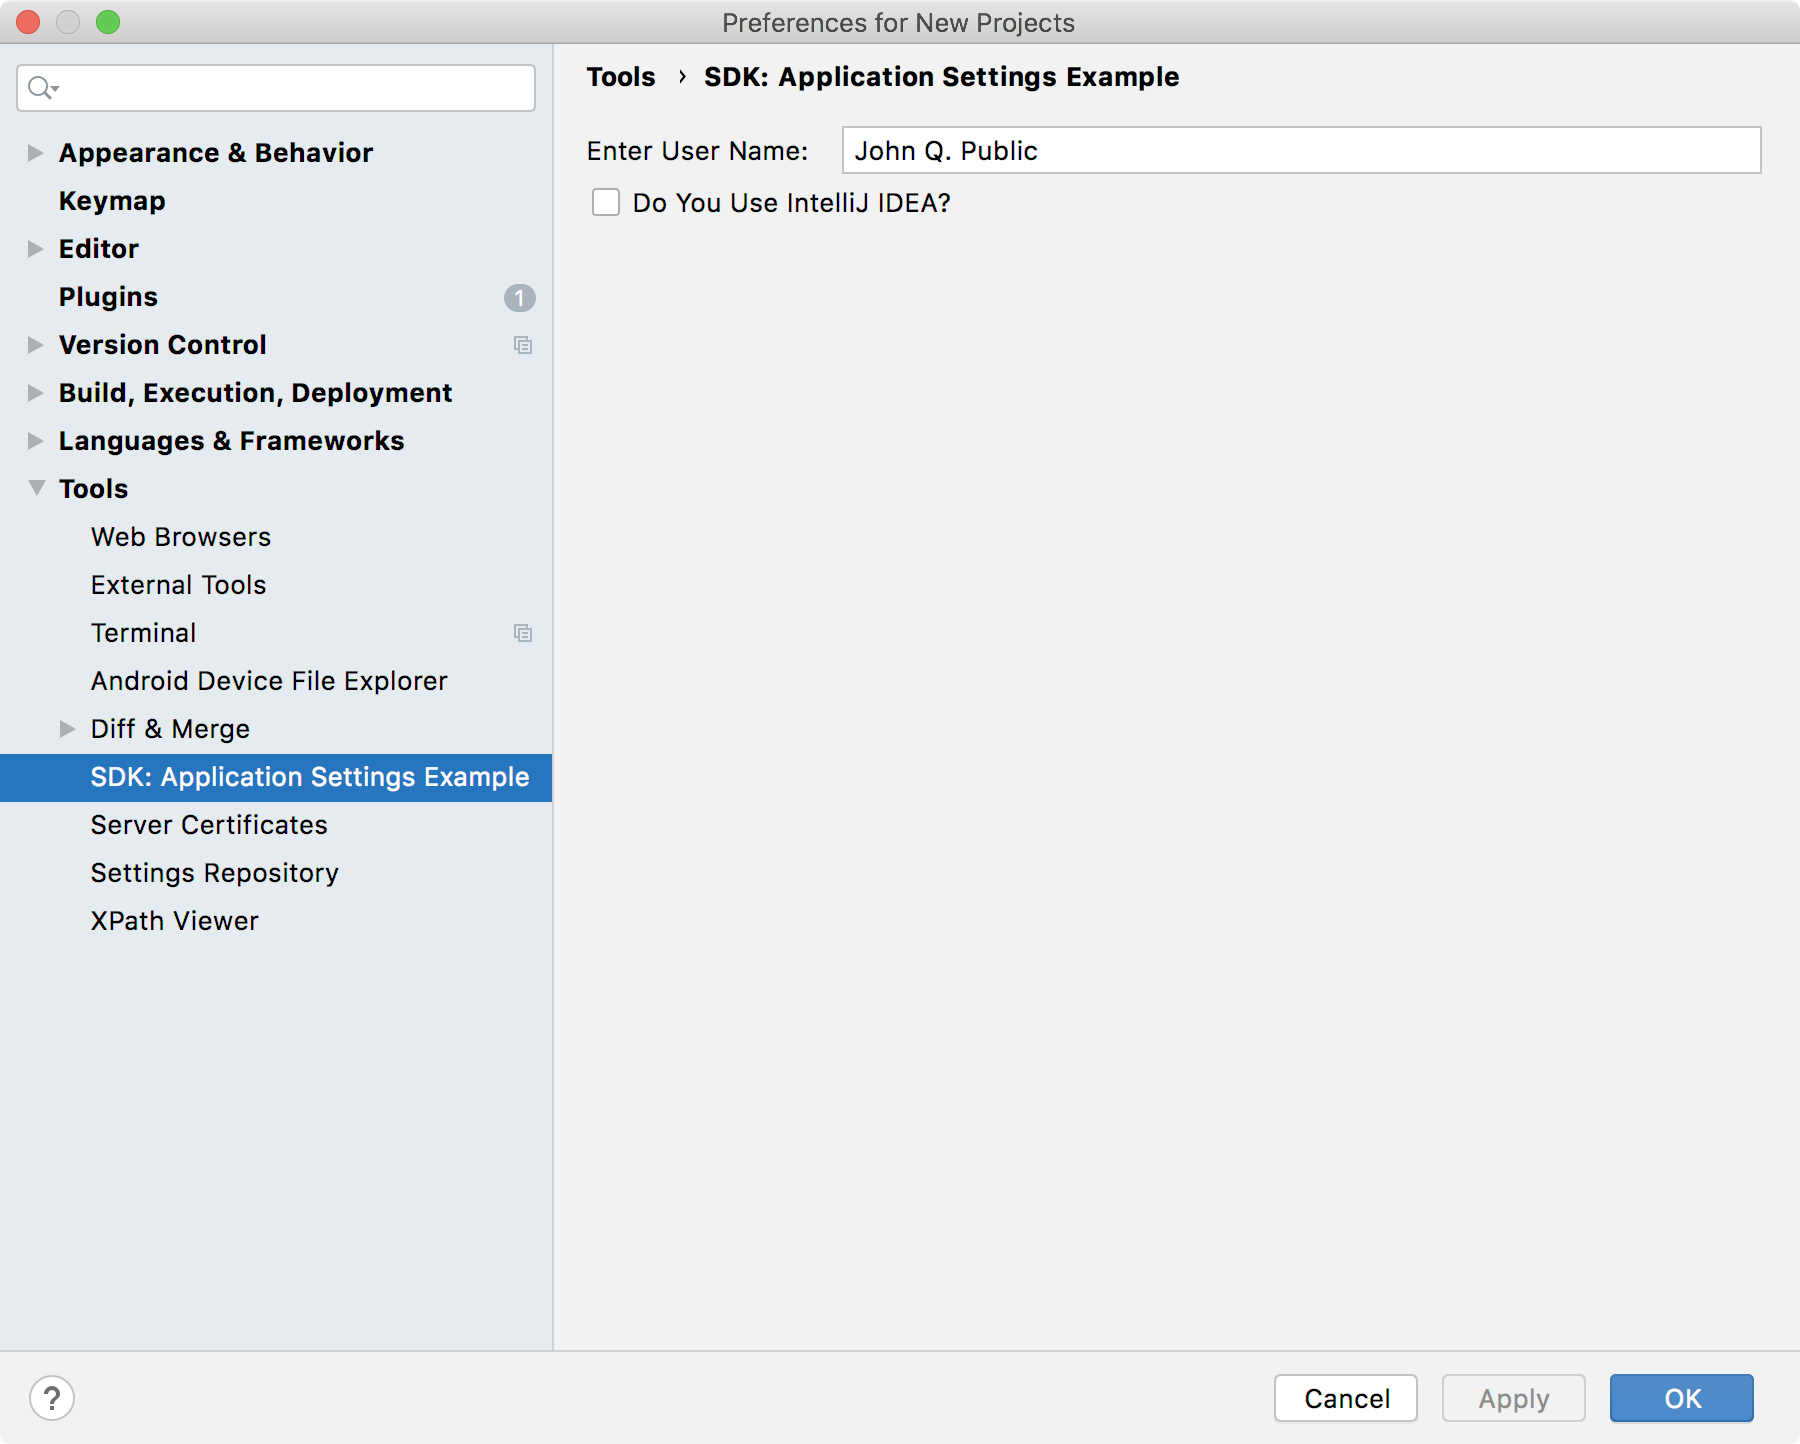
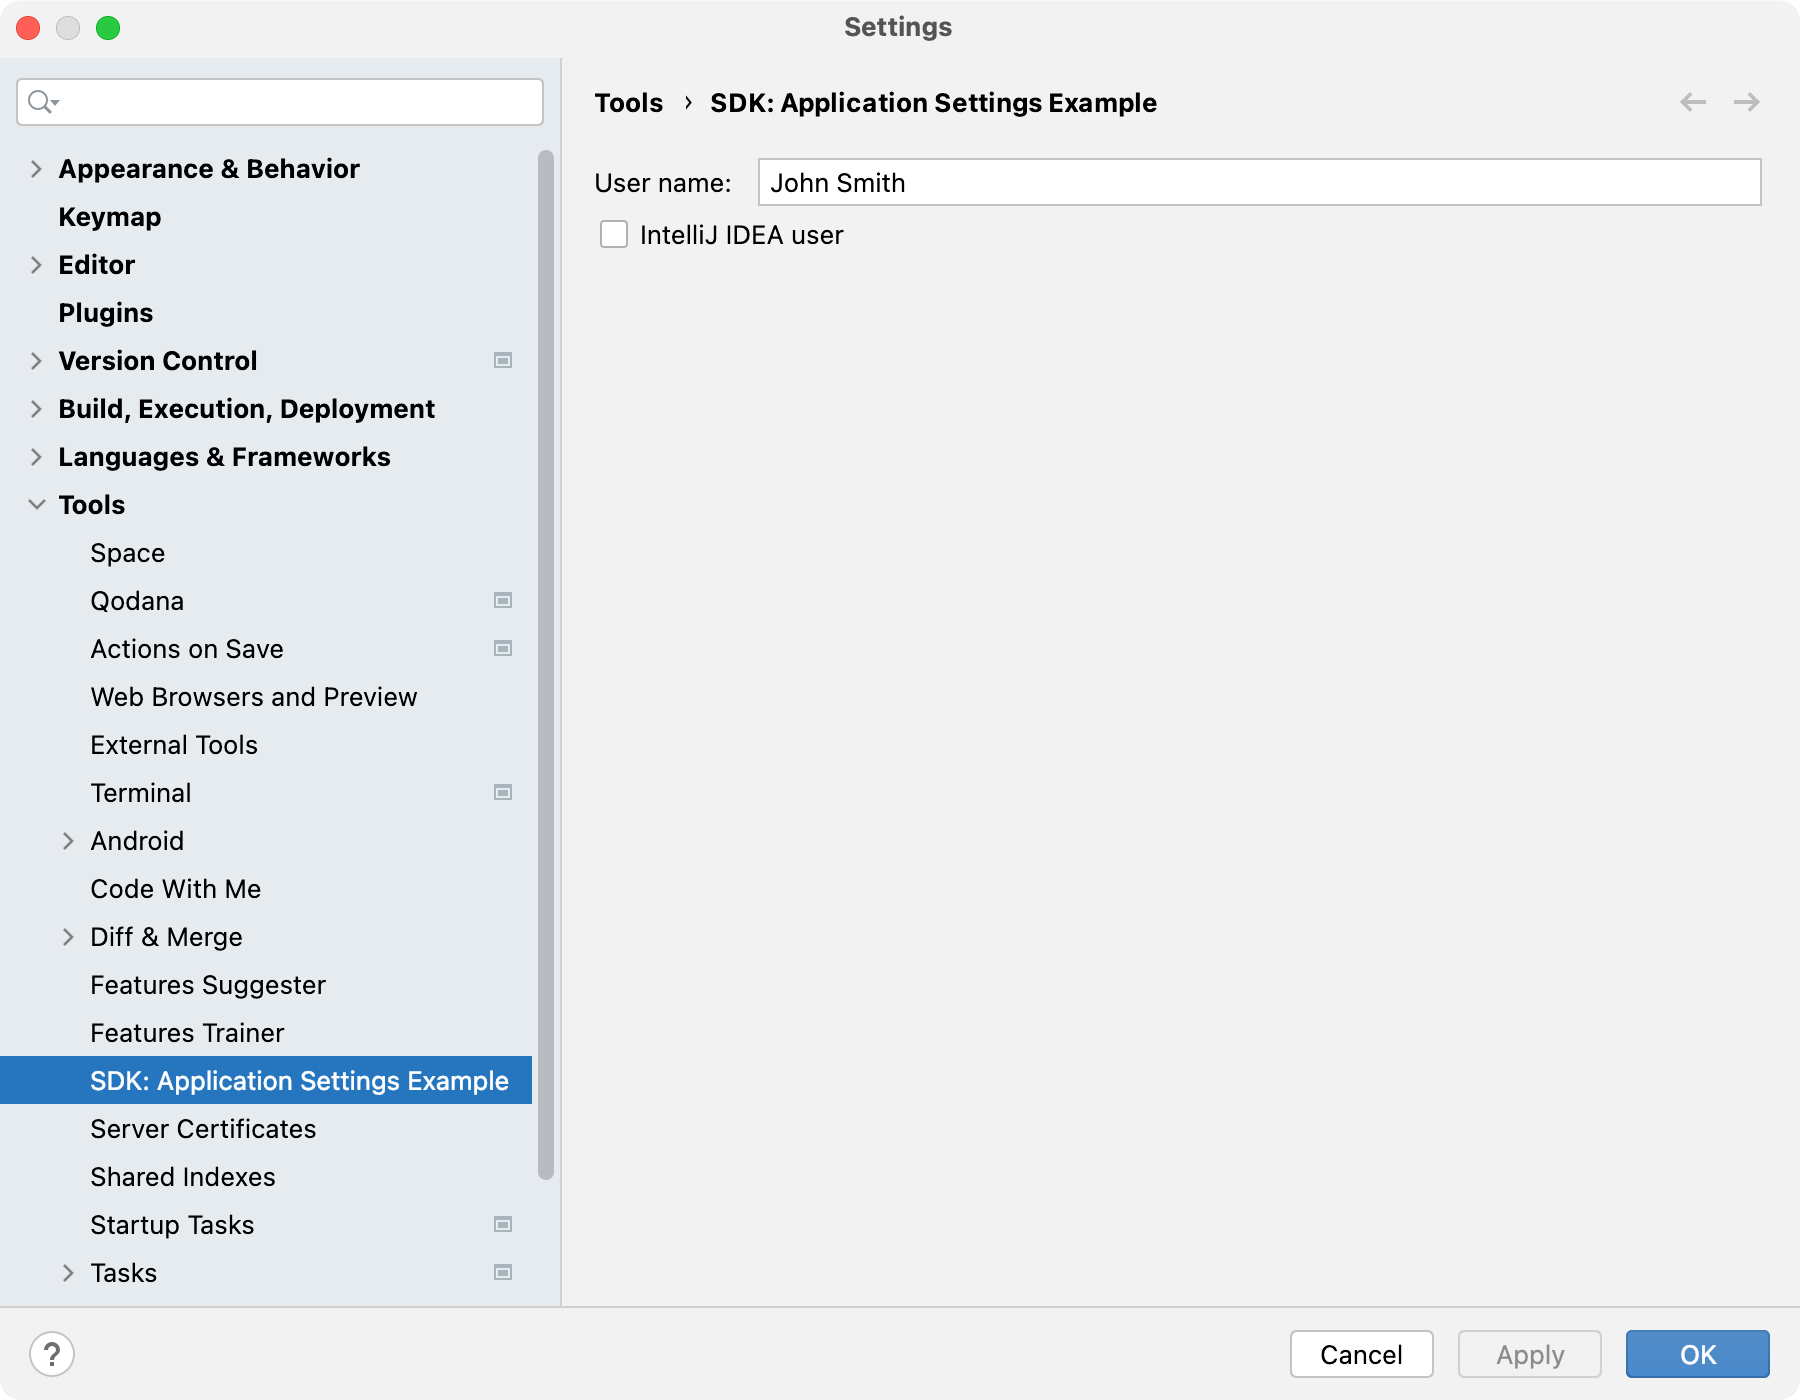
Settings tutorial: Change the implementation to follow the recommended approach (a separate state class)
Also:
- remove unnecessary screenshot
- change labels to follow UX guidelines

diff --git a/code_samples/settings/src/main/java/org/intellij/sdk/settings/AppSettingsConfigurable.java b/code_samples/settings/src/main/java/org/intellij/sdk/settings/AppSettingsConfigurable.java
@@ -6,6 +6,7 @@ import org.jetbrains.annotations.Nls;
 import org.jetbrains.annotations.Nullable;
 
 import javax.swing.*;
+import java.util.Objects;
 
 /**
  * Provides controller functionality for application settings.
@@ -14,8 +15,8 @@ final class AppSettingsConfigurable implements Configurable {
 
   private AppSettingsComponent mySettingsComponent;
 
-  // A default constructor with no arguments is required because this implementation
-  // is registered in an applicationConfigurable EP
+  // A default constructor with no arguments is required because
+  // this implementation is registered as an applicationConfigurable
 
   @Nls(capitalization = Nls.Capitalization.Title)
   @Override
@@ -37,24 +38,26 @@ final class AppSettingsConfigurable implements Configurable {
 
   @Override
   public boolean isModified() {
-    AppSettingsState settings = AppSettingsState.getInstance();
-    boolean modified = !mySettingsComponent.getUserNameText().equals(settings.userId);
-    modified |= mySettingsComponent.getIdeaUserStatus() != settings.ideaStatus;
-    return modified;
+    AppSettings.State state =
+        Objects.requireNonNull(AppSettings.getInstance().getState());
+    return !mySettingsComponent.getUserNameText().equals(state.userId) ||
+        mySettingsComponent.getIdeaUserStatus() != state.ideaStatus;
   }
 
   @Override
   public void apply() {
-    AppSettingsState settings = AppSettingsState.getInstance();
-    settings.userId = mySettingsComponent.getUserNameText();
-    settings.ideaStatus = mySettingsComponent.getIdeaUserStatus();
+    AppSettings.State state =
+        Objects.requireNonNull(AppSettings.getInstance().getState());
+    state.userId = mySettingsComponent.getUserNameText();
+    state.ideaStatus = mySettingsComponent.getIdeaUserStatus();
   }
 
   @Override
   public void reset() {
-    AppSettingsState settings = AppSettingsState.getInstance();
-    mySettingsComponent.setUserNameText(settings.userId);
-    mySettingsComponent.setIdeaUserStatus(settings.ideaStatus);
+    AppSettings.State state =
+        Objects.requireNonNull(AppSettings.getInstance().getState());
+    mySettingsComponent.setUserNameText(state.userId);
+    mySettingsComponent.setIdeaUserStatus(state.ideaStatus);
   }
 
   @Override

diff --git a/code_samples/settings/src/main/java/org/intellij/sdk/settings/AppSettings.java b/code_samples/settings/src/main/java/org/intellij/sdk/settings/AppSettings.java
@@ -1,0 +1,49 @@
+// Copyright 2000-2024 JetBrains s.r.o. and contributors. Use of this source code is governed by the Apache 2.0 license.
+
+package org.intellij.sdk.settings;
+
+import com.intellij.openapi.application.ApplicationManager;
+import com.intellij.openapi.components.PersistentStateComponent;
+import com.intellij.openapi.components.State;
+import com.intellij.openapi.components.Storage;
+import org.jetbrains.annotations.NonNls;
+import org.jetbrains.annotations.NotNull;
+
+/*
+ * Supports storing the application settings in a persistent way.
+ * The {@link com.intellij.openapi.components.State State} and {@link Storage}
+ * annotations define the name of the data and the filename where these persistent
+ * application settings are stored.
+ */
+
+@State(
+    name = "org.intellij.sdk.settings.AppSettings",
+    storages = @Storage("SdkSettingsPlugin.xml")
+)
+final class AppSettings
+    implements PersistentStateComponent<AppSettings.State> {
+
+  static class State {
+    @NonNls
+    public String userId = "John Smith";
+    public boolean ideaStatus = false;
+  }
+
+  private State myState = new State();
+
+  static AppSettings getInstance() {
+    return ApplicationManager.getApplication()
+        .getService(AppSettings.class);
+  }
+
+  @Override
+  public State getState() {
+    return myState;
+  }
+
+  @Override
+  public void loadState(@NotNull State state) {
+    myState = state;
+  }
+
+}

diff --git a/code_samples/settings/src/main/java/org/intellij/sdk/settings/AppSettingsComponent.java b/code_samples/settings/src/main/java/org/intellij/sdk/settings/AppSettingsComponent.java
@@ -1,4 +1,4 @@
-// Copyright 2000-2022 JetBrains s.r.o. and other contributors. Use of this source code is governed by the Apache 2.0 license that can be found in the LICENSE file.
+// Copyright 2000-2024 JetBrains s.r.o. and contributors. Use of this source code is governed by the Apache 2.0 license.
 
 package org.intellij.sdk.settings;
 
@@ -17,11 +17,11 @@ public class AppSettingsComponent {
 
   private final JPanel myMainPanel;
   private final JBTextField myUserNameText = new JBTextField();
-  private final JBCheckBox myIdeaUserStatus = new JBCheckBox("Do you use IntelliJ IDEA? ");
+  private final JBCheckBox myIdeaUserStatus = new JBCheckBox("IntelliJ IDEA user");
 
   public AppSettingsComponent() {
     myMainPanel = FormBuilder.createFormBuilder()
-        .addLabeledComponent(new JBLabel("Enter user name: "), myUserNameText, 1, false)
+        .addLabeledComponent(new JBLabel("User name:"), myUserNameText, 1, false)
         .addComponent(myIdeaUserStatus, 1)
         .addComponentFillVertically(new JPanel(), 0)
         .getPanel();

diff --git a/topics/tutorials/settings_tutorial.md b/topics/tutorials/settings_tutorial.md
@@ -13,7 +13,7 @@ Custom Settings are displayed and function just like those native to the IDE.
 Using the SDK code sample [`settings`](%gh-sdk-samples-master%/settings), this tutorial illustrates the steps to create custom Application-level Settings.
 Many IntelliJ Platform Settings implementations use fewer classes, but the `settings` code sample factors the functionality into three classes for clarity:
 * The [`AppSettingsConfigurable`](%gh-sdk-samples-master%/settings/src/main/java/org/intellij/sdk/settings/AppSettingsConfigurable.java) is analogous to a Controller in the MVC model - it interacts with the other two Settings classes and the IntelliJ Platform,
-* The [`AppSettingsState`](%gh-sdk-samples-master%/settings/src/main/java/org/intellij/sdk/settings/AppSettingsState.java) is like a Model because it stores the Settings persistently,
+* The [`AppSettings`](%gh-sdk-samples-master%/settings/src/main/java/org/intellij/sdk/settings/AppSettings.java) is like a Model because it stores the Settings persistently,
 * The [`AppSettingsComponent`](%gh-sdk-samples-master%/settings/src/main/java/org/intellij/sdk/settings/AppSettingsComponent.java) is similar to a View because it displays and captures edits to the values of the Settings.
 
 The structure of the implementation is the same for Project Settings, but there are minor differences in the [`Configurable` implementation](settings_guide.md#constructors) and [extension point (EP) declaration](settings_guide.md#declaring-project-settings).
@@ -26,12 +26,12 @@ The structure of the implementation is the same for Project Settings, but there 
 >
 {style="note"}
 
-## The `AppSettingsState` Class
+## The `AppSettings` Class
 
-The `AppSettingsState` class persistently stores the custom Settings.
+The `AppSettings` class persistently stores the custom Settings.
 It is based on the [IntelliJ Platform Persistence Model](persisting_state_of_components.md#using-persistentstatecomponent).
 
-### Declaring `AppSettingsState`
+### Declaring `AppSettings`
 
 Given a [Light Service](plugin_services.md#light-services) is not used, the persistent data class must be declared as a [Service](plugin_services.md#declaring-a-service) EP in the <path>[plugin.xml](plugin_configuration_file.md)</path> file.
 If these were Project Settings, the `com.intellij.projectService` EP would be used.
@@ -40,40 +40,40 @@ However, because these are Application Settings, the `com.intellij.applicationSe
 ```xml
 <extensions defaultExtensionNs="com.intellij">
   <applicationService
-      serviceImplementation="org.intellij.sdk.settings.AppSettingsState"/>
+      serviceImplementation="org.intellij.sdk.settings.AppSettings"/>
 </extensions>
 ```
 
-### Creating the `AppSettingState` Implementation
+### Creating the `AppSettings` Implementation
 
-As discussed in [Implementing the PersistentStateComponent Interface](persisting_state_of_components.md#implementing-the-persistentstatecomponent-interface), `AppSettingsState` uses the pattern of implementing [`PersistentStateComponent`](%gh-ic%/platform/projectModel-api/src/com/intellij/openapi/components/PersistentStateComponent.java) itself:
+As discussed in [Implementing the PersistentStateComponent Interface](persisting_state_of_components.md#implementing-the-persistentstatecomponent-interface), `AppSettings` uses the pattern of implementing [`PersistentStateComponent`](%gh-ic%/platform/projectModel-api/src/com/intellij/openapi/components/PersistentStateComponent.java) parameterized by a separate state class:
 
 ```java
 ```
-{src="settings/src/main/java/org/intellij/sdk/settings/AppSettingsState.java" include-symbol="AppSettingsState"}
+{src="settings/src/main/java/org/intellij/sdk/settings/AppSettings.java" include-symbol="AppSettings"}
 
 #### `@Storage` Annotation
 
 The [`@State`](%gh-ic%/platform/projectModel-api/src/com/intellij/openapi/components/State.java) annotation, located just above the class declaration, [defines the data storage location](persisting_state_of_components.md#defining-the-storage-location).
-For `AppSettingsState`, the data `name` parameter is the FQN of the class.
+For `AppSettings`, the data `name` parameter is the FQN of the class.
 Using FQN is the best practice to follow, and is required if custom data gets stored in the standard project or workspace files.
 
-The `storages` parameter utilizes the [`@Storage`](%gh-ic%/platform/projectModel-api/src/com/intellij/openapi/components/Storage.java) annotation to define a custom file name for the `AppSettingsState` data.
+The `storages` parameter utilizes the [`@Storage`](%gh-ic%/platform/projectModel-api/src/com/intellij/openapi/components/Storage.java) annotation to define a custom file name for the `AppSettings` data.
 In this case, the file is located in the `options` directory of the [configuration directory](https://www.jetbrains.com/help/idea/tuning-the-ide.html#config-directory) for the IDE.
 
-#### Persistent Data Fields
+#### Persistent State Class
 
-The `AppSettingState` implementation has two public fields: a `String` and a `boolean`.
-Conceptually, these fields hold the name of a user, and whether that person is an IntelliJ IDEA user, respectively.
+The `AppSettings` implementation contains an inner state class with two public fields: a `String` and a `boolean`.
+Conceptually, these fields hold the name of a user and whether that person is an IntelliJ IDEA user, respectively.
 See [Implementing the State Class](persisting_state_of_components.md#implementing-the-state-class) for more information about how `PersistentStateComponent` serializes public fields.
 
-#### `AppSettingState` Methods
+#### `AppSettings` Methods
 
 The fields are so limited and straightforward for this class that encapsulation is not used for simplicity.
 All that's needed for functionality is to override the two methods called by the IntelliJ Platform when a new component state is loaded (`PersistentStateComponent.loadState()`), and when a state is saved (`PersistentStateComponent.getState()`).
 See [`PersistentStateComponent`](%gh-ic%/platform/projectModel-api/src/com/intellij/openapi/components/PersistentStateComponent.java) for more information about these methods.
 
-One static convenience method has been added - `AppSettingState.getInstance()` - which allows `AppSettingsConfigurable` to easily acquire a reference to `AppSettingState`.
+One static convenience method has been added - `AppSettings.getInstance()` - which allows `AppSettingsConfigurable` to easily acquire a reference to `AppSetting`.
 
 ## The `AppSettingsComponent` Class
 
@@ -83,7 +83,7 @@ The `AppSettingsComponent` is instantiated by `AppSettingsConfigurable`.
 
 ### Creating the `AppSettingsComponent` Implementation
 
-The `AppSettingsComponent` defines a `JPanel` containing a [`JBTextField`](%gh-ic%/platform/platform-api/src/com/intellij/ui/components/JBTextField.java) and a [`JBCheckBox`](%gh-ic%/platform/platform-api/src/com/intellij/ui/components/JBCheckBox.java) to hold and display the data that maps to the [data fields](#persistent-data-fields) of `AppSettingsState`:
+The `AppSettingsComponent` defines a `JPanel` containing a [`JBTextField`](%gh-ic%/platform/platform-api/src/com/intellij/ui/components/JBTextField.java) and a [`JBCheckBox`](%gh-ic%/platform/platform-api/src/com/intellij/ui/components/JBCheckBox.java) to hold and display the data that maps to the [data fields of `AppSettings.State`](#persistent-state-class):
 
 ```java
 ```
@@ -96,7 +96,7 @@ The rest of the class are simple accessors and mutators to encapsulate the UI co
 
 ## The `AppSettingsConfigurable` Class
 
-The methods of [`AppSettingsConfigurable`](%gh-sdk-samples-master%/settings/src/main/java/org/intellij/sdk/settings/AppSettingsConfigurable.java) are called by the IntelliJ Platform, and `AppSettingsConfigurable` in turn interacts with `AppSettingsComponent` and `AppSettingState`.
+The methods of [`AppSettingsConfigurable`](%gh-sdk-samples-master%/settings/src/main/java/org/intellij/sdk/settings/AppSettingsConfigurable.java) are called by the IntelliJ Platform, and `AppSettingsConfigurable` in turn interacts with `AppSettingsComponent` and `AppSettings`.
 
 ### Declaring the `AppSettingsConfigurable`
 
@@ -134,13 +134,11 @@ After performing the steps described above, compile and run the plugin in a Deve
 Open the IDE Settings by selecting <ui-path>Settings | Tools | SDK: Application Settings Example</ui-path>.
 The settings are preloaded with the default values:
 
-!["Settings Defaults"](settings_defaults.png){width="600"}
+!["Settings Defaults"](settings_defaults.png){width="700"}
 
 Now edit the settings values to "John Doe" and click the checkbox.
 Click on the <control>OK</control> button to close the Settings dialog and save the changes.
 Exit the Development Instance.
 
-Open the file <path>SdkSettingsPlugin.xml</path> to see the Settings persistently stored.
+Open the file <path>code_samples/settings/build/idea-sandbox/config/options/SdkSettingsPlugin.xml</path> to see the Settings persistently stored.
 In this demonstration the file resides in <path>code_samples/settings/build/idea-sandbox/config/options/</path>, but see [IDE Development Instances](ide_development_instance.md) for the general Development Instance case, or [Default IDE directories](https://www.jetbrains.com/help/idea/tuning-the-ide.html#default-dirs) if you are testing the `settings` plugin directly in an IDE.
-
-!["Persisted Settings"](settings_persisted.png){width="600"}

diff --git a/code_samples/settings/README.md b/code_samples/settings/README.md
@@ -4,8 +4,8 @@
 ## Quickstart
 
 This project illustrates a custom Application-level Settings through the implementation of:
-- `AppSettingsConfigurable` is analogous to a Controller in the MVC model - it interacts with the other two Settings classes and the IntelliJ Platform,
-- `AppSettingsState` is like a Model because it stores the Settings persistently,
+- `AppSettingsConfigurable` is analogous to a Controller in the MVC model – it interacts with the other two Settings classes and the IntelliJ Platform,
+- `AppSettings` is like a Model because it stores the Settings persistently,
 - `AppSettingsComponent` is similar to a View because it displays and captures edits to the values of the Settings.
 
 ### Extension Points
@@ -13,7 +13,7 @@ This project illustrates a custom Application-level Settings through the impleme
 | Name                                   | Implementation                                          | Extension Point Class      |
 |----------------------------------------|---------------------------------------------------------|----------------------------|
 | `com.intellij.applicationConfigurable` | [AppSettingsConfigurable][file:AppSettingsConfigurable] | `Configurable`             |
-| `com.intellij.applicationService`      | [AppSettingsState][file:AppSettingsState]               | `PersistentStateComponent` |
+| `com.intellij.applicationService`      | [AppSettings][file:AppSettings]                         | `PersistentStateComponent` |
 
 *Reference: [Plugin Extension Points in IntelliJ SDK Docs][docs:ep]*
 
@@ -23,5 +23,4 @@ This project illustrates a custom Application-level Settings through the impleme
 [docs:ep]: https://plugins.jetbrains.com/docs/intellij/plugin-extensions.html
 
 [file:AppSettingsConfigurable]: ./src/main/java/org/intellij/sdk/settings/AppSettingsConfigurable.java
-[file:AppSettingsState]: ./src/main/java/org/intellij/sdk/settings/AppSettingsState.java
-
+[file:AppSettings]: ./src/main/java/org/intellij/sdk/settings/AppSettings.java
